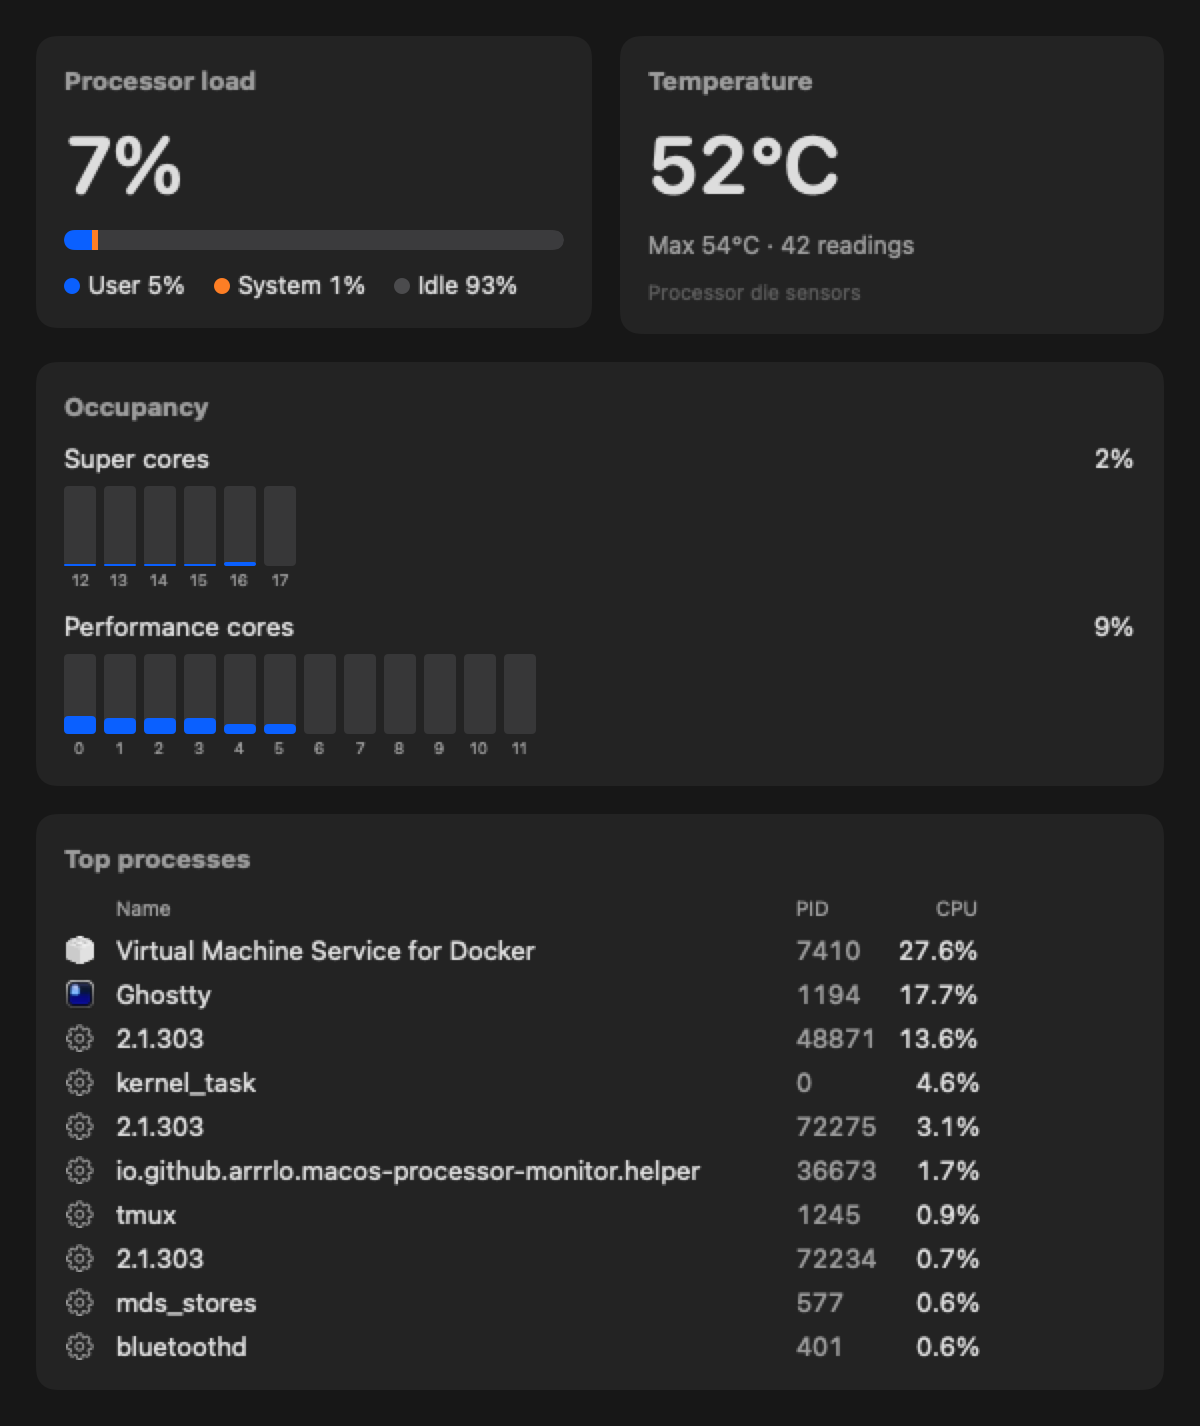
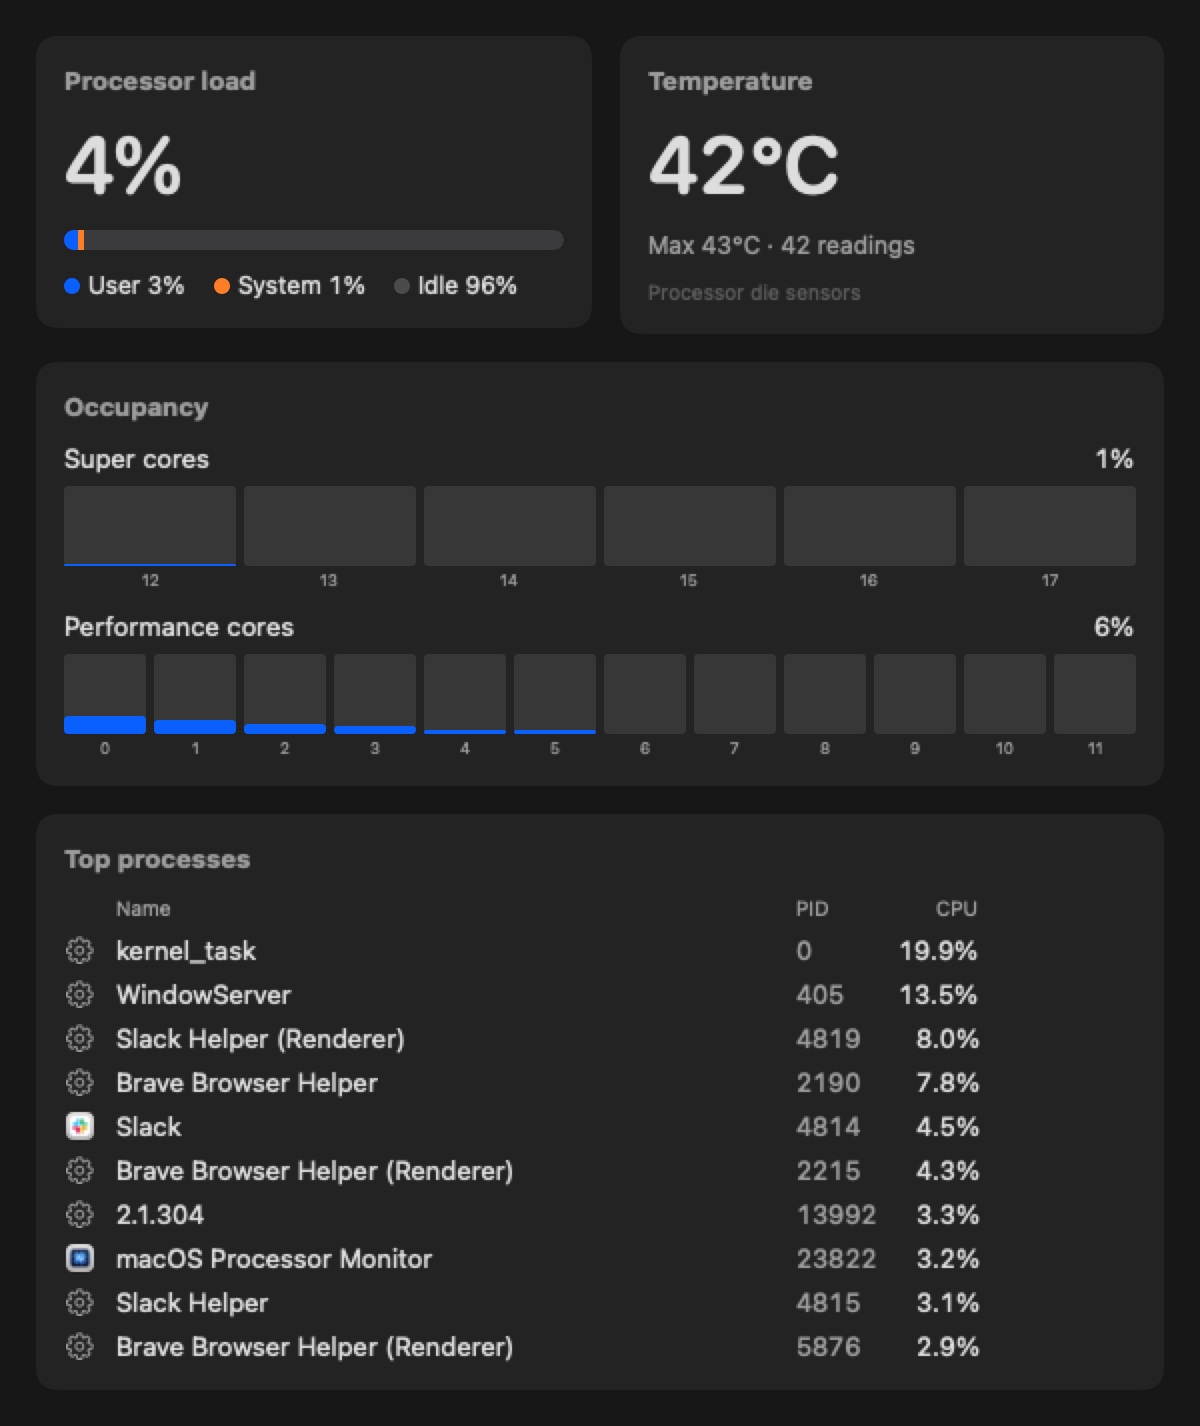
Stretch the dashboard's core bars across the Occupancy card
Each core bar was a fixed 16 pt, so a 12-core cluster used less than
half of the card and a 6-core cluster about a fifth, leaving empty
space on the right.

DashboardModel.coreBarWidth(count:) now sizes each cluster's bars so
that the bars and their gaps fill the card's content width. The window
is fixed at 600 pt, so the width is a constant computation per render:
no GeometryReader and no layout pass. The dashboard's padding constants
are named so the card width is derived rather than repeated. The README
screenshots are re-rendered.

diff --git a/Sources/ProcessorMonitorUI/Dashboard.swift b/Sources/ProcessorMonitorUI/Dashboard.swift
@@ -22,10 +22,23 @@ public struct DashboardModel {
     static func barWidth(_ fraction: Double, of width: CGFloat) -> CGFloat {
         width * CGFloat(min(max(fraction, 0), 1))
     }
+
+    /// Width of each of a cluster's `count` core bars so the bars and their gaps span a full-width card.
+    static func coreBarWidth(count: Int) -> CGFloat {
+        guard count > 0 else { return 0 }
+        return (DashboardView.cardContentWidth - DashboardView.coreSpacing * CGFloat(count - 1)) / CGFloat(count)
+    }
 }
 
 /// Read-only dashboard. It has no controls on purpose: every action lives in the menu.
 struct DashboardView: View {
+    static let width: CGFloat = 600
+    static let padding: CGFloat = 18
+    static let cardPadding: CGFloat = 14
+    /// The width a full-width card leaves for its content.
+    static let cardContentWidth: CGFloat = width - 2 * padding - 2 * cardPadding
+    static let coreSpacing: CGFloat = 4
+
     let model: DashboardModel
 
     var body: some View {
@@ -37,8 +50,8 @@ struct DashboardView: View {
             OccupancyCard(model: model)
             ProcessesCard(model: model)
         }
-        .padding(18)
-        .frame(width: 600)
+        .padding(Self.padding)
+        .frame(width: Self.width)
     }
 }
 
@@ -56,7 +69,7 @@ private struct Card<Content: View>: View {
             Text(title).font(.headline).foregroundStyle(.secondary)
             content
         }
-        .padding(14)
+        .padding(DashboardView.cardPadding)
         .frame(maxWidth: .infinity, alignment: .leading)
         .background(RoundedRectangle(cornerRadius: 10).fill(Color.primary.opacity(0.06)))
     }
@@ -126,9 +139,11 @@ private struct OccupancyCard: View {
                         Spacer()
                         Text(row.value).monospacedDigit()
                     }
-                    HStack(alignment: .bottom, spacing: 4) {
-                        ForEach(model.coreLoads(for: name), id: \.index) { core in
-                            CoreBar(core: core)
+                    let cores = model.coreLoads(for: name)
+                    let barWidth = DashboardModel.coreBarWidth(count: cores.count)
+                    HStack(alignment: .bottom, spacing: DashboardView.coreSpacing) {
+                        ForEach(cores, id: \.index) { core in
+                            CoreBar(core: core, width: barWidth)
                         }
                     }
                 }
@@ -140,6 +155,7 @@ private struct OccupancyCard: View {
 private struct CoreBar: View {
     static let height: CGFloat = 40
     let core: CoreLoad
+    let width: CGFloat
 
     var body: some View {
         VStack(spacing: 2) {
@@ -147,7 +163,7 @@ private struct CoreBar: View {
                 RoundedRectangle(cornerRadius: 2).fill(Color.gray.opacity(0.2))
                 RoundedRectangle(cornerRadius: 2).fill(Color.accentColor).frame(height: DashboardModel.barWidth(core.load, of: Self.height))
             }
-            .frame(width: 16, height: Self.height)
+            .frame(width: width, height: Self.height)
             Text(verbatim: String(core.index)).font(.system(size: 8)).foregroundStyle(.secondary)
         }
         .help("Core \(core.index): \(MetricFormatter.percent(core.load))")

diff --git a/Tests/ProcessorMonitorUITests/DashboardTests.swift b/Tests/ProcessorMonitorUITests/DashboardTests.swift
@@ -68,6 +68,18 @@ extension AppKitTests {
             #expect(DashboardModel.barWidth(2, of: 200) == 200)
             #expect(DashboardModel.barWidth(-1, of: 200) == 0)
         }
+
+        @Test func coreBarsSpanTheFullCardWidth() {
+            #expect(DashboardView.cardContentWidth == 536)
+            #expect(DashboardModel.coreBarWidth(count: 12) == 41)
+            #expect(DashboardModel.coreBarWidth(count: 6) == 86)
+            #expect(DashboardModel.coreBarWidth(count: 1) == 536)
+            #expect(DashboardModel.coreBarWidth(count: 0) == 0)
+            for count in [6, 12] {
+                let row = DashboardModel.coreBarWidth(count: count) * CGFloat(count) + DashboardView.coreSpacing * CGFloat(count - 1)
+                #expect(row == DashboardView.cardContentWidth)
+            }
+        }
     }
 
     @MainActor @Suite struct DashboardWindowControllerTests {

diff --git a/CHANGELOG.md b/CHANGELOG.md
@@ -11,6 +11,10 @@ tooling and tests) and versions follow [Semantic Versioning](https://semver.org/
 
 - This changelog. Release notes on GitHub now list the changes in each version.
 
+### Changed
+
+- The dashboard's core bars stretch to fill the Occupancy card from edge to edge.
+
 ### Fixed
 
 - The release `.sha256` file names the installer without a `build/` prefix, so
